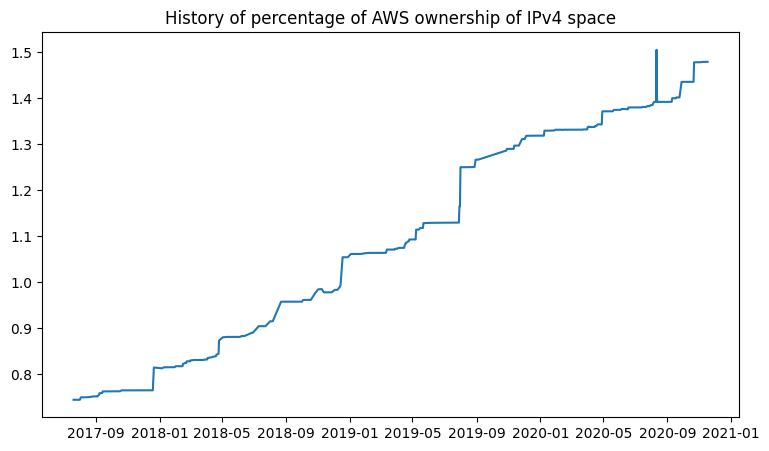
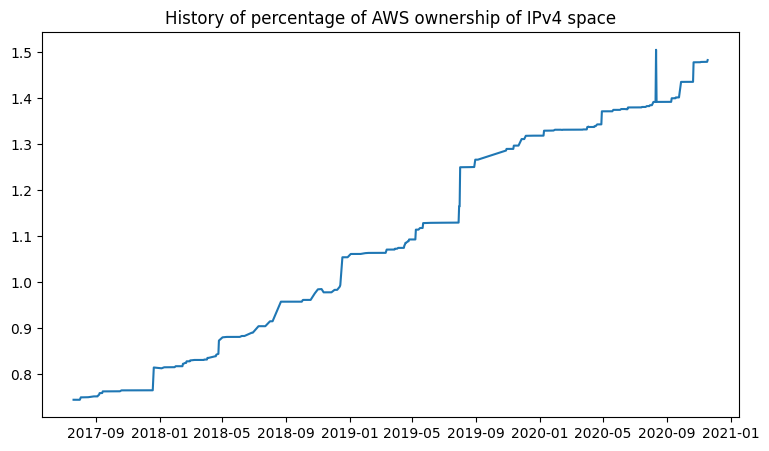
Update data files

Changed region(s): [[0.4993, 0.9313, 0.9051, 0.9933], [0.8739, 0.1863, 0.9051, 0.2173], [0.593, 0.4035, 0.6242, 0.4346]]

diff --git a/README.md b/README.md
@@ -16,6 +16,7 @@ address space AWS is in control of.
 
 | | Percent | IPs | Change | CIDRs |
 | :--- | ---: | ---: | ---: | :--- |
+| 2020-11-18 22:11:11 | 1.48243 | 54883390 | +141344 | +18.60.0.0/15, +99.87.16.0/20, +99.87.8.0/21, ... |
 | 2020-11-16 21:51:11 | 1.47861 | 54742046 | +512 | +54.222.68.0/23 |
 | 2020-11-13 01:51:10 | 1.47860 | 54741534 | +28 | +150.222.230.104/29, +150.222.230.112/29, +150.222.230.100/30, ... |
 | 2020-11-13 01:11:10 | 1.47860 | 54741506 | +4 | +150.222.230.94/31, +150.222.230.96/31 |
@@ -30,7 +31,6 @@ address space AWS is in control of.
 | 2020-11-05 22:51:10 | 1.47829 | 54729945 | +20480 | +99.150.32.0/19, +99.150.64.0/19, +99.150.24.0/21, ... |
 | 2020-11-05 20:11:11 | 1.47773 | 54709465 | +256 | +15.230.140.0/24 |
 | 2020-11-03 19:21:10 | 1.47773 | 54709209 | +256 | +198.99.2.0/24 |
-| 2020-11-03 18:21:11 | 1.47772 | 54708953 | +1024 | +99.83.80.0/22 |
 
 
 # 15 largest changes to date:
